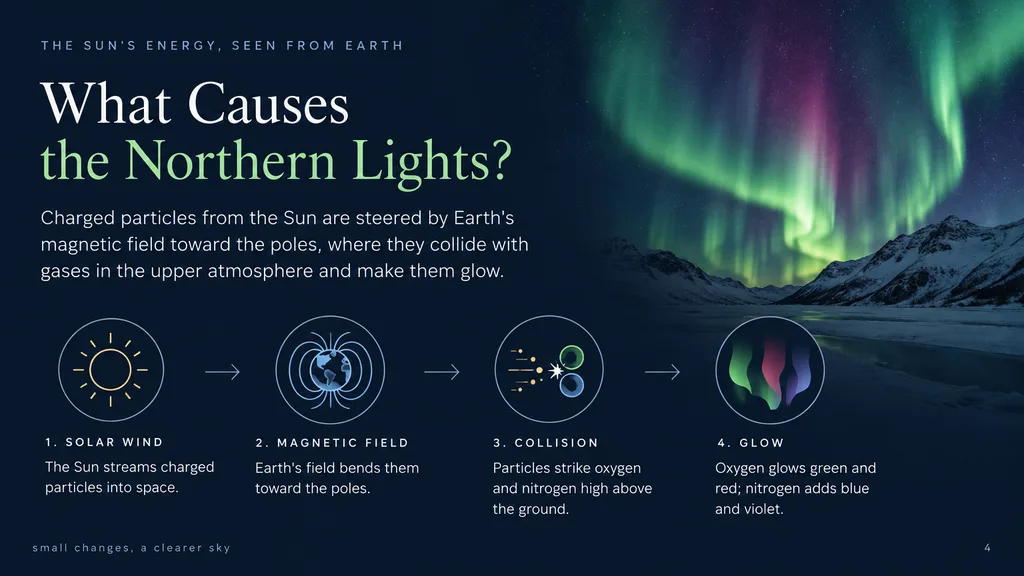
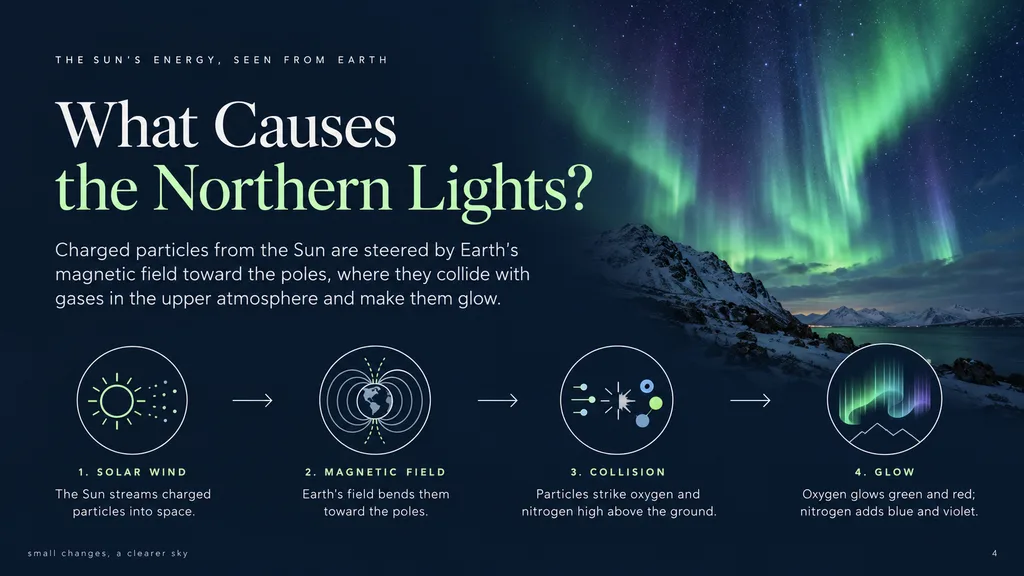
chore: replace aurora and pavilion results, ticket tile on landing, uncropped library cards
Library cards now show the whole image inside the square frame instead of
cropping landscape results. The launch module's last tile is the flat
Lisbon ticket. Combined one-row upserts for the three changed records.

diff --git a/src/routes/library.tsx b/src/routes/library.tsx
@@ -558,11 +558,12 @@ function PromptCard({
       {/* Thumbnail */}
       {prompt.thumbnail_url ? (
         <div className="relative aspect-square w-full overflow-hidden bg-[color:var(--bg-subtle)]">
+          {/* Square frame, whole image: landscape and portrait results are never cropped. */}
           <img
             src={prompt.thumbnail_url}
             alt=""
             loading="lazy"
-            className="h-full w-full object-cover"
+            className="h-full w-full object-contain"
           />
         </div>
       ) : (

diff --git a/src/lib/product.ts b/src/lib/product.ts
@@ -118,8 +118,8 @@ export const ANNOUNCEMENT: Announcement = {
       span: "wide",
     },
     {
-      slug: "mosaic-earth-and-stars",
-      alt: "Tile mosaic of Earth under a starry sky",
+      slug: "ticket-localization-edit",
+      alt: "Vintage travel ticket localized from Tokyo to Lisbon",
       span: "wide",
     },
   ],
